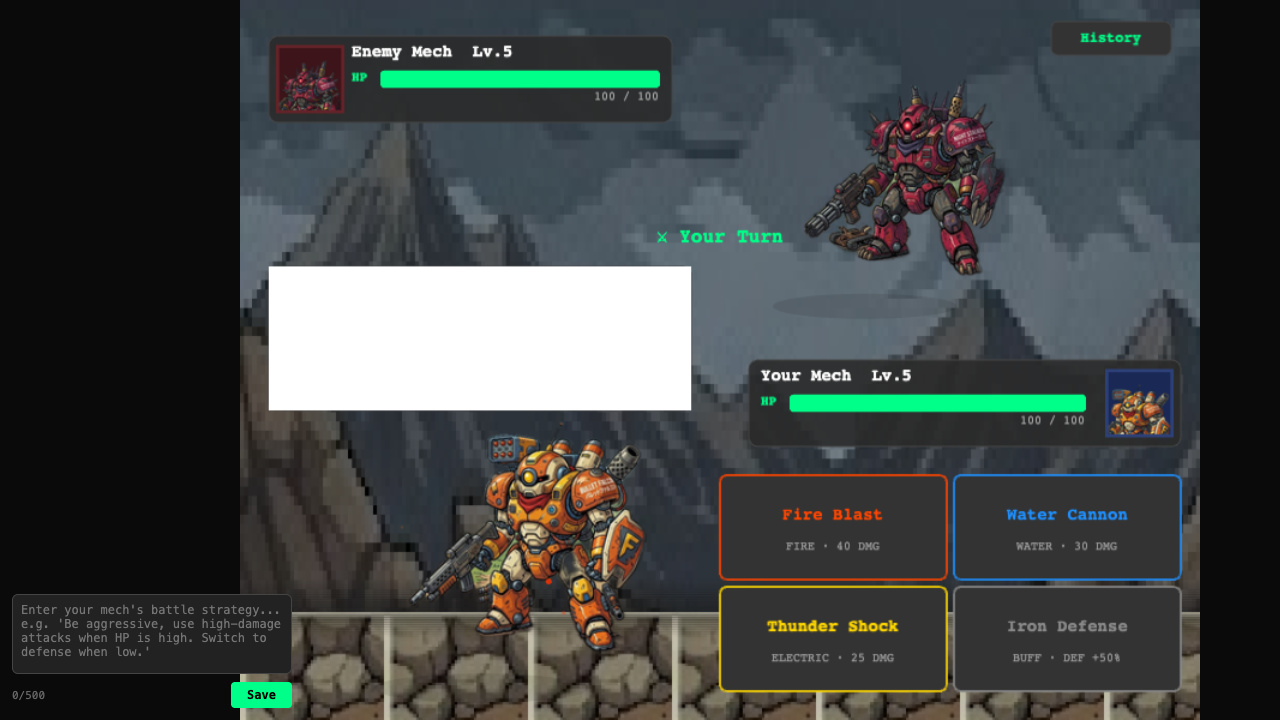
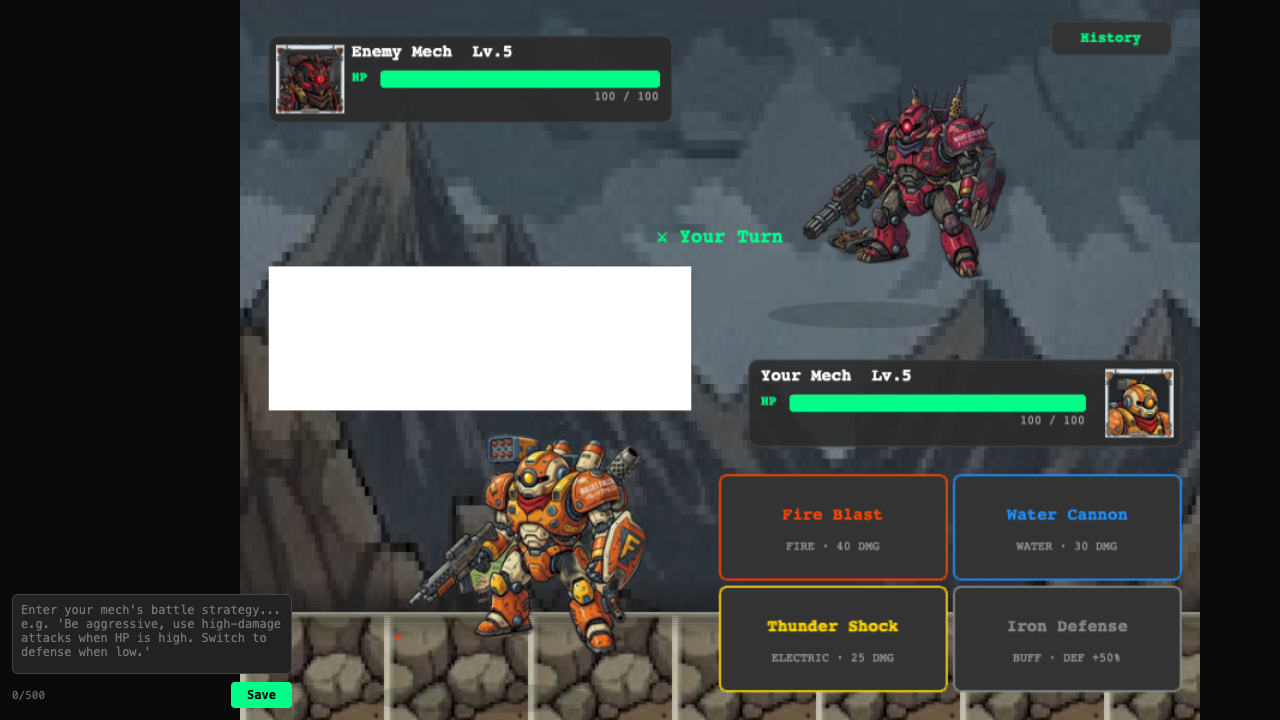
feat: use exact reference JPG portraits for FALCON UNIT and VENOM BATTALION (#69)
- Add user-provided reference JPGs to src/assets/reference/portraits/
  (final-player-falcon-unit.jpg, final-enemy-venom-battalion.jpg)
- Regenerate all portrait PNGs from these exact JPG references via
  center-crop + LANCZOS resize to 64x64
- Update crop-portraits.py to source from reference JPGs
- Rewrite tests with SHA256 pinned hashes for reference JPGs
- Add in-game UI screenshot proving HUD matches reference portraits
- Update portrait-crop-proof.png showing source → state variants

Closes #68

diff --git a/tests/playerPortraitSource.test.ts b/tests/playerPortraitSource.test.ts
@@ -7,96 +7,95 @@ import { describe, it } from "node:test";
 
 const ROOT = resolve(import.meta.dirname, "..");
 const PORTRAIT_DIR = resolve(ROOT, "src/assets/portraits");
+const REF_DIR = resolve(ROOT, "src/assets/reference/portraits");
 
-// Final portrait source files (single source of truth per FR #66)
-const PLAYER_SOURCE = resolve(PORTRAIT_DIR, "final-player-falcon-unit.png");
-const ENEMY_SOURCE = resolve(PORTRAIT_DIR, "final-enemy-venom-battalion.png");
+// Reference JPG files (single source of truth per FR #68)
+const PLAYER_REF = resolve(REF_DIR, "final-player-falcon-unit.jpg");
+const ENEMY_REF = resolve(REF_DIR, "final-enemy-venom-battalion.jpg");
 
-describe("final portrait source files", () => {
-  it("final-player-falcon-unit.png should exist", () => {
-    assert.ok(existsSync(PLAYER_SOURCE), `Missing: ${PLAYER_SOURCE}`);
+describe("portrait reference JPG files", () => {
+  it("final-player-falcon-unit.jpg should exist in reference dir", () => {
+    assert.ok(existsSync(PLAYER_REF), `Missing: ${PLAYER_REF}`);
   });
 
-  it("final-enemy-venom-battalion.png should exist", () => {
-    assert.ok(existsSync(ENEMY_SOURCE), `Missing: ${ENEMY_SOURCE}`);
+  it("final-enemy-venom-battalion.jpg should exist in reference dir", () => {
+    assert.ok(existsSync(ENEMY_REF), `Missing: ${ENEMY_REF}`);
   });
 
-  it("final-player-falcon-unit.png should be a valid PNG", async () => {
-    const buf = await readFile(PLAYER_SOURCE);
-    assert.ok(buf.length > 4, "file should not be empty");
-    assert.equal(buf[0], 0x89);
-    assert.equal(buf[1], 0x50);
+  it("player reference should be a valid JPEG", async () => {
+    const buf = await readFile(PLAYER_REF);
+    assert.ok(buf.length > 2, "file should not be empty");
+    assert.equal(buf[0], 0xff, "JPEG starts with 0xFF");
+    assert.equal(buf[1], 0xd8, "JPEG second byte is 0xD8");
   });
 
-  it("final-enemy-venom-battalion.png should be a valid PNG", async () => {
-    const buf = await readFile(ENEMY_SOURCE);
-    assert.ok(buf.length > 4, "file should not be empty");
-    assert.equal(buf[0], 0x89);
-    assert.equal(buf[1], 0x50);
+  it("enemy reference should be a valid JPEG", async () => {
+    const buf = await readFile(ENEMY_REF);
+    assert.ok(buf.length > 2, "file should not be empty");
+    assert.equal(buf[0], 0xff);
+    assert.equal(buf[1], 0xd8);
   });
 
-  it("player source SHA256 should match pinned hash", async () => {
+  it("player reference SHA256 should match pinned hash", async () => {
     const PINNED =
[1 lines of base64/hex data omitted]
-    const buf = await readFile(PLAYER_SOURCE);
[1 lines of base64/hex data omitted]
+    const buf = await readFile(PLAYER_REF);
+    const hash = createHash("sha256").update(buf).digest("hex");
+    assert.equal(hash, PINNED, `FALCON UNIT ref SHA256 mismatch. Got: ${hash}`);
+  });
+
+  it("enemy reference SHA256 should match pinned hash", async () => {
+    const PINNED =
[1 lines of base64/hex data omitted]
+    const buf = await readFile(ENEMY_REF);
     const hash = createHash("sha256").update(buf).digest("hex");
     assert.equal(
       hash,
       PINNED,
-      `FALCON UNIT source SHA256 mismatch. Got: ${hash}`,
+      `VENOM BATTALION ref SHA256 mismatch. Got: ${hash}`,
     );
   });
 
-  it("enemy source SHA256 should match pinned hash", async () => {
-    const PINNED =
[1 lines of base64/hex data omitted]
-    const buf = await readFile(ENEMY_SOURCE);
-    const hash = createHash("sha256").update(buf).digest("hex");
-    assert.equal(
-      hash,
-      PINNED,
-      `VENOM BATTALION source SHA256 mismatch. Got: ${hash}`,
-    );
-  });
-
-  it("player and enemy source files should be different", async () => {
-    const playerBuf = await readFile(PLAYER_SOURCE);
-    const enemyBuf = await readFile(ENEMY_SOURCE);
-    assert.notDeepEqual(
-      playerBuf,
-      enemyBuf,
-      "Player and enemy source files must be distinct",
-    );
+  it("player and enemy references should be different files", async () => {
+    const a = await readFile(PLAYER_REF);
+    const b = await readFile(ENEMY_REF);
+    assert.notDeepEqual(a, b, "References must be distinct");
   });
 });
 
-describe("portrait state variant files", () => {
+describe("portrait runtime PNG files", () => {
   const STATES = ["normal", "angry", "defeated"] as const;
 
+  // Final base PNGs
+  it("final-player-falcon-unit.png should exist", () => {
+    assert.ok(
+      existsSync(resolve(PORTRAIT_DIR, "final-player-falcon-unit.png")),
+    );
+  });
+
+  it("final-enemy-venom-battalion.png should exist", () => {
+    assert.ok(
+      existsSync(resolve(PORTRAIT_DIR, "final-enemy-venom-battalion.png")),
+    );
+  });
+
+  // State variants existence + format
   for (const prefix of ["player", "water"] as const) {
     for (const state of STATES) {
       const filename = `${prefix}-${state}.png`;
 
       it(`${filename} should exist`, () => {
-        assert.ok(
-          existsSync(resolve(PORTRAIT_DIR, filename)),
-          `Missing: ${filename}`,
-        );
+        assert.ok(existsSync(resolve(PORTRAIT_DIR, filename)));
       });
 
       it(`${filename} should be a valid 64x64 RGB PNG`, async () => {
         const buf = await readFile(resolve(PORTRAIT_DIR, filename));
-        // PNG signature
         assert.equal(buf[0], 0x89);
         assert.equal(buf[1], 0x50);
         assert.equal(buf[2], 0x4e);
         assert.equal(buf[3], 0x47);
-        // IHDR: 64x64
-        const width = buf.readUInt32BE(16);
-        const height = buf.readUInt32BE(20);
-        assert.equal(width, 64, `${filename} width should be 64`);
-        assert.equal(height, 64, `${filename} height should be 64`);
-        // color type 2 = RGB
+        assert.equal(buf.readUInt32BE(16), 64, `${filename} width`);
+        assert.equal(buf.readUInt32BE(20), 64, `${filename} height`);
         assert.equal(buf[25], 2, `${filename} should be RGB`);
       });
     }
@@ -104,15 +103,11 @@ describe("portrait state variant files", () => {
 
   it("player portraits should be distinct from water portraits", async () => {
     for (const state of STATES) {
-      const playerBuf = await readFile(
-        resolve(PORTRAIT_DIR, `player-${state}.png`),
-      );
-      const waterBuf = await readFile(
-        resolve(PORTRAIT_DIR, `water-${state}.png`),
-      );
+      const p = await readFile(resolve(PORTRAIT_DIR, `player-${state}.png`));
+      const w = await readFile(resolve(PORTRAIT_DIR, `water-${state}.png`));
       assert.notDeepEqual(
-        playerBuf,
-        waterBuf,
+        p,
+        w,
         `player-${state} must differ from water-${state}`,
       );
     }
@@ -122,17 +117,17 @@ describe("portrait state variant files", () => {
     const bufs = await Promise.all(
       STATES.map((s) => readFile(resolve(PORTRAIT_DIR, `player-${s}.png`))),
     );
-    assert.notDeepEqual(bufs[0], bufs[1], "normal and angry should differ");
-    assert.notDeepEqual(bufs[1], bufs[2], "angry and defeated should differ");
-    assert.notDeepEqual(bufs[0], bufs[2], "normal and defeated should differ");
+    assert.notDeepEqual(bufs[0], bufs[1], "normal vs angry");
+    assert.notDeepEqual(bufs[1], bufs[2], "angry vs defeated");
+    assert.notDeepEqual(bufs[0], bufs[2], "normal vs defeated");
   });
 
   it("all three enemy states should be visually distinct", async () => {
     const bufs = await Promise.all(
       STATES.map((s) => readFile(resolve(PORTRAIT_DIR, `water-${s}.png`))),
     );
-    assert.notDeepEqual(bufs[0], bufs[1], "normal and angry should differ");
-    assert.notDeepEqual(bufs[1], bufs[2], "angry and defeated should differ");
-    assert.notDeepEqual(bufs[0], bufs[2], "normal and defeated should differ");
+    assert.notDeepEqual(bufs[0], bufs[1], "normal vs angry");
+    assert.notDeepEqual(bufs[1], bufs[2], "angry vs defeated");
+    assert.notDeepEqual(bufs[0], bufs[2], "normal vs defeated");
   });
 });

diff --git a/scripts/crop-portraits.py b/scripts/crop-portraits.py
@@ -1,16 +1,16 @@
 #!/usr/bin/env python3
 """
-Generate portrait state variants from final portrait source files.
+Generate portrait state variants from reference portrait JPG files.
 
-Sources:
-  - src/assets/portraits/final-player-falcon-unit.png  (FALCON UNIT, player)
-  - src/assets/portraits/final-enemy-venom-battalion.png (VENOM BATTALION, enemy)
+Sources (read-only, do not modify):
+  - src/assets/reference/portraits/final-player-falcon-unit.jpg
+  - src/assets/reference/portraits/final-enemy-venom-battalion.jpg
 
 Outputs:
+  - src/assets/portraits/final-player-falcon-unit.png (64x64 base)
+  - src/assets/portraits/final-enemy-venom-battalion.png (64x64 base)
   - src/assets/portraits/player-{normal,angry,defeated}.png
   - src/assets/portraits/water-{normal,angry,defeated}.png
-
-Each portrait is 64x64 RGB. State variants apply color/brightness effects.
 """
 
 import argparse
@@ -25,46 +25,50 @@ except ImportError:
     sys.exit(1)
 
 REPO_ROOT = Path(__file__).resolve().parent.parent
+REF_DIR = REPO_ROOT / "src/assets/reference/portraits"
 PORTRAIT_DIR = REPO_ROOT / "src/assets/portraits"
 PROOF_DIR = REPO_ROOT / "docs"
 
-# Final portrait source files (single source of truth)
-PLAYER_SOURCE = PORTRAIT_DIR / "final-player-falcon-unit.png"
-ENEMY_SOURCE = PORTRAIT_DIR / "final-enemy-venom-battalion.png"
+PLAYER_REF = REF_DIR / "final-player-falcon-unit.jpg"
+ENEMY_REF = REF_DIR / "final-enemy-venom-battalion.jpg"
+
+
+def center_crop_square(img: Image.Image) -> Image.Image:
+    """Center-crop to square to avoid distortion on non-square sources."""
+    w, h = img.size
+    side = min(w, h)
+    left = (w - side) // 2
+    top = (h - side) // 2
+    return img.crop((left, top, left + side, top + side))
 
 
 def make_state_variant(base: Image.Image, state: str) -> Image.Image:
     """Apply state-specific visual effects to a 64x64 portrait."""
     img = base.copy().convert("RGB")
-
     if state == "normal":
         return img
-
     if state == "angry":
         img = ImageEnhance.Color(img).enhance(1.4)
         img = ImageEnhance.Brightness(img).enhance(0.85)
         arr = np.array(img).astype(np.float32)
         arr[:, :, 0] = np.clip(arr[:, :, 0] * 1.2 + 15, 0, 255)
         return Image.fromarray(arr.astype(np.uint8))
-
     if state == "defeated":
         img = ImageEnhance.Color(img).enhance(0.3)
         img = ImageEnhance.Brightness(img).enhance(0.5)
         return img
-
     return img
 
 
 def generate_proof(
-    player_src: Image.Image,
-    enemy_src: Image.Image,
+    player_base: Image.Image,
+    enemy_base: Image.Image,
     player_variants: dict[str, Image.Image],
     enemy_variants: dict[str, Image.Image],
 ) -> None:
     """Generate proof image showing sources and all state variants."""
     margin = 12
     label_h = 16
-    # Layout: two rows (player + enemy), each with source + 3 variants
     row_h = 64 + label_h
     canvas_w = 64 + margin + 3 * (64 + margin)
     canvas_h = 2 * row_h + margin
@@ -72,7 +76,7 @@ def generate_proof(
     draw = ImageDraw.Draw(canvas)
 
     # Player row
-    canvas.paste(player_src.convert("RGB").resize((64, 64)), (0, 0))
+    canvas.paste(player_base, (0, 0))
     draw.text((0, 64), "FALCON UNIT", fill=(100, 180, 255))
     for i, (state, variant) in enumerate(player_variants.items()):
         x = 64 + margin + i * (64 + margin)
@@ -81,7 +85,7 @@ def generate_proof(
 
     # Enemy row
     y_off = row_h + margin
-    canvas.paste(enemy_src.convert("RGB").resize((64, 64)), (0, y_off))
+    canvas.paste(enemy_base, (0, y_off))
     draw.text((0, y_off + 64), "VENOM BTLN", fill=(255, 100, 100))
     for i, (state, variant) in enumerate(enemy_variants.items()):
         x = 64 + margin + i * (64 + margin)
@@ -99,36 +103,42 @@ def main() -> None:
     parser.add_argument("--proof", action="store_true", help="Generate proof image")
     args = parser.parse_args()
 
-    for src_path, label in [(PLAYER_SOURCE, "player"), (ENEMY_SOURCE, "enemy")]:
-        if not src_path.exists():
-            print(f"Error: {label} source not found: {src_path}")
+    for ref, label in [(PLAYER_REF, "player"), (ENEMY_REF, "enemy")]:
+        if not ref.exists():
+            print(f"Error: {label} reference not found: {ref}")
             sys.exit(1)
 
-    player_src = Image.open(PLAYER_SOURCE)
-    enemy_src = Image.open(ENEMY_SOURCE)
-
+    PORTRAIT_DIR.mkdir(parents=True, exist_ok=True)
     STATES = ["normal", "angry", "defeated"]
-    MAPPINGS = [
-        (player_src, "player", STATES),
-        (enemy_src, "water", STATES),
-    ]
+
+    # Process player
+    player_img = Image.open(PLAYER_REF).convert("RGB")
+    player_base = center_crop_square(player_img).resize((64, 64), Image.LANCZOS)
+    player_base.save(PORTRAIT_DIR / "final-player-falcon-unit.png")
 
     player_variants: dict[str, Image.Image] = {}
-    enemy_variants: dict[str, Image.Image] = {}
+    for state in STATES:
+        v = make_state_variant(player_base, state)
+        v.save(PORTRAIT_DIR / f"player-{state}.png")
+        player_variants[state] = v
+        print(f"  player-{state}.png: {v.size} {v.mode}")
 
-    for src_img, prefix, states in MAPPINGS:
-        variants = player_variants if prefix == "player" else enemy_variants
-        for state in states:
-            variant = make_state_variant(src_img, state)
-            out_path = PORTRAIT_DIR / f"{prefix}-{state}.png"
-            variant.save(out_path)
-            variants[state] = variant
-            print(f"  {out_path.relative_to(REPO_ROOT)}: {variant.size} {variant.mode}")
+    # Process enemy
+    enemy_img = Image.open(ENEMY_REF).convert("RGB")
+    enemy_base = center_crop_square(enemy_img).resize((64, 64), Image.LANCZOS)
+    enemy_base.save(PORTRAIT_DIR / "final-enemy-venom-battalion.png")
+
+    enemy_variants: dict[str, Image.Image] = {}
+    for state in STATES:
+        v = make_state_variant(enemy_base, state)
+        v.save(PORTRAIT_DIR / f"water-{state}.png")
+        enemy_variants[state] = v
+        print(f"  water-{state}.png: {v.size} {v.mode}")
 
     if args.proof:
-        generate_proof(player_src, enemy_src, player_variants, enemy_variants)
+        generate_proof(player_base, enemy_base, player_variants, enemy_variants)
 
-    print("Done: all portraits generated from final source files.")
+    print("Done: all portraits generated from reference JPG files.")
 
 
 if __name__ == "__main__":
